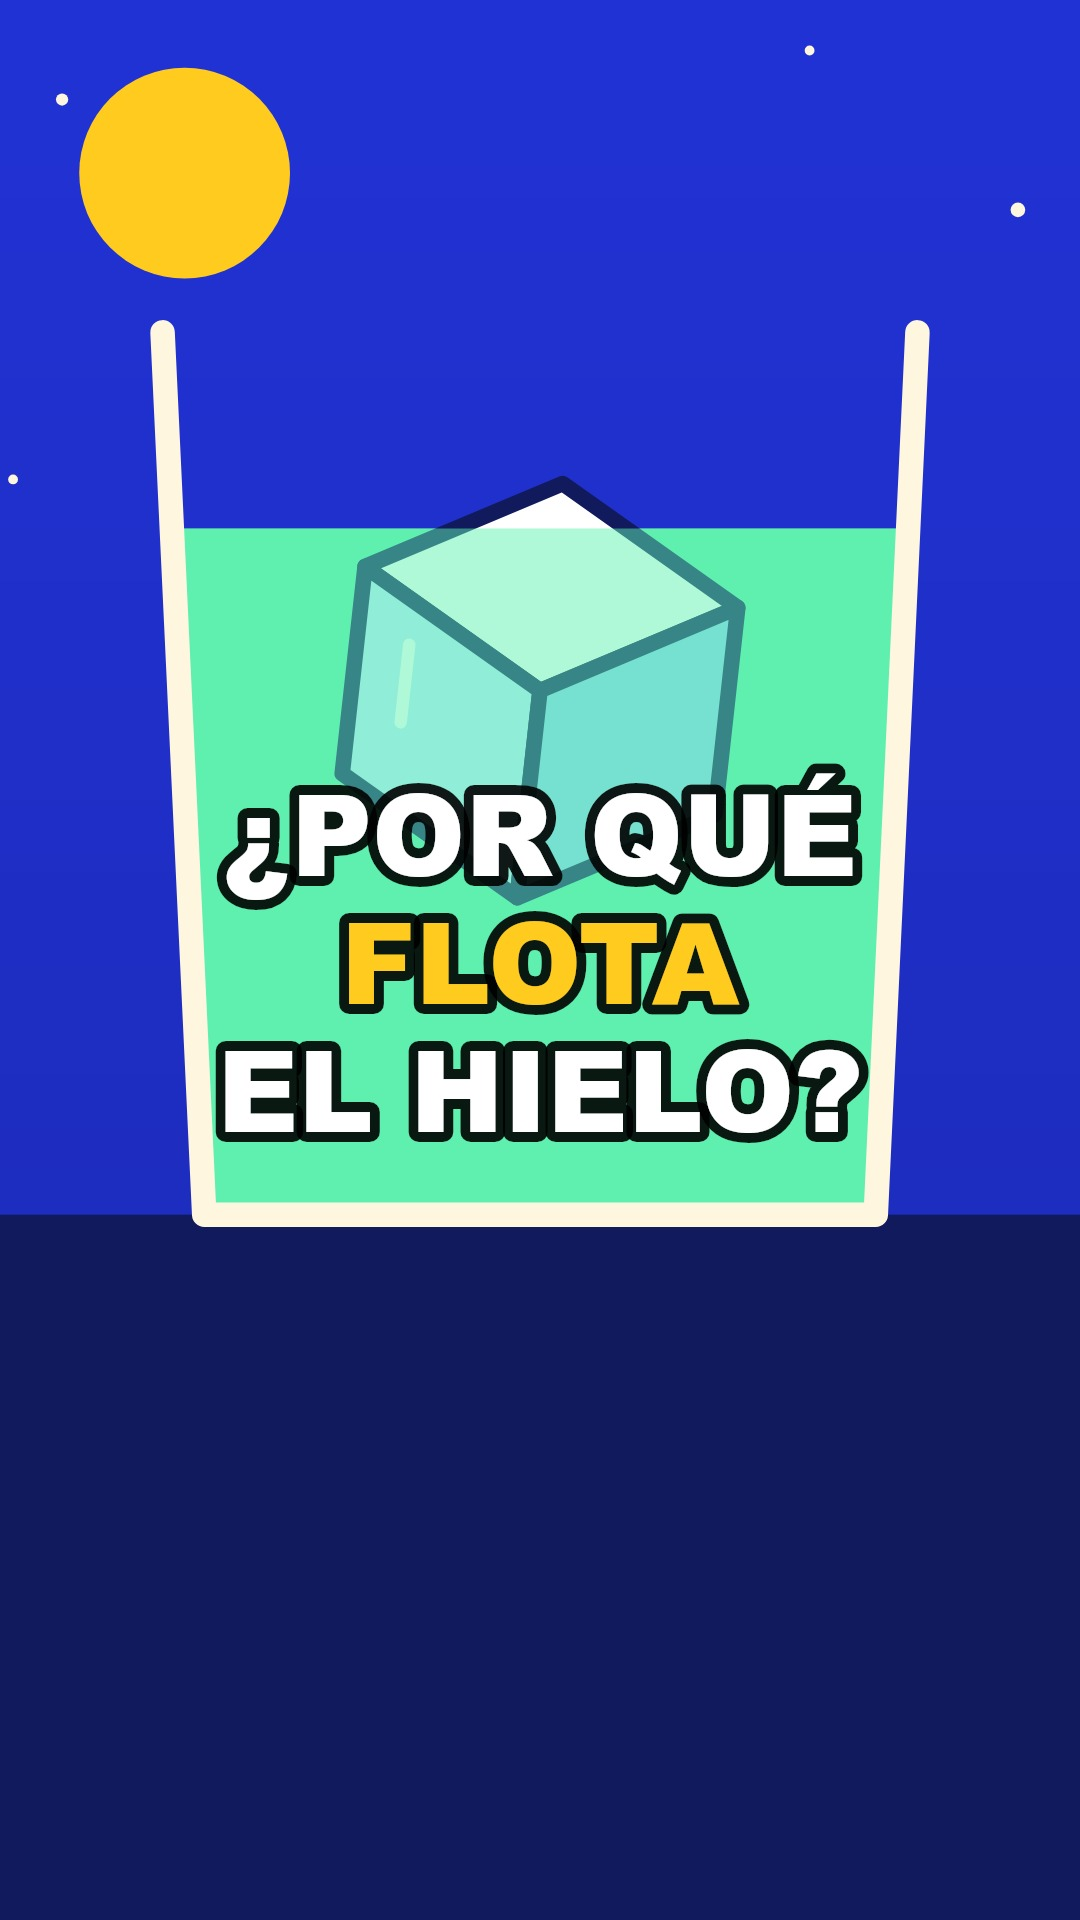
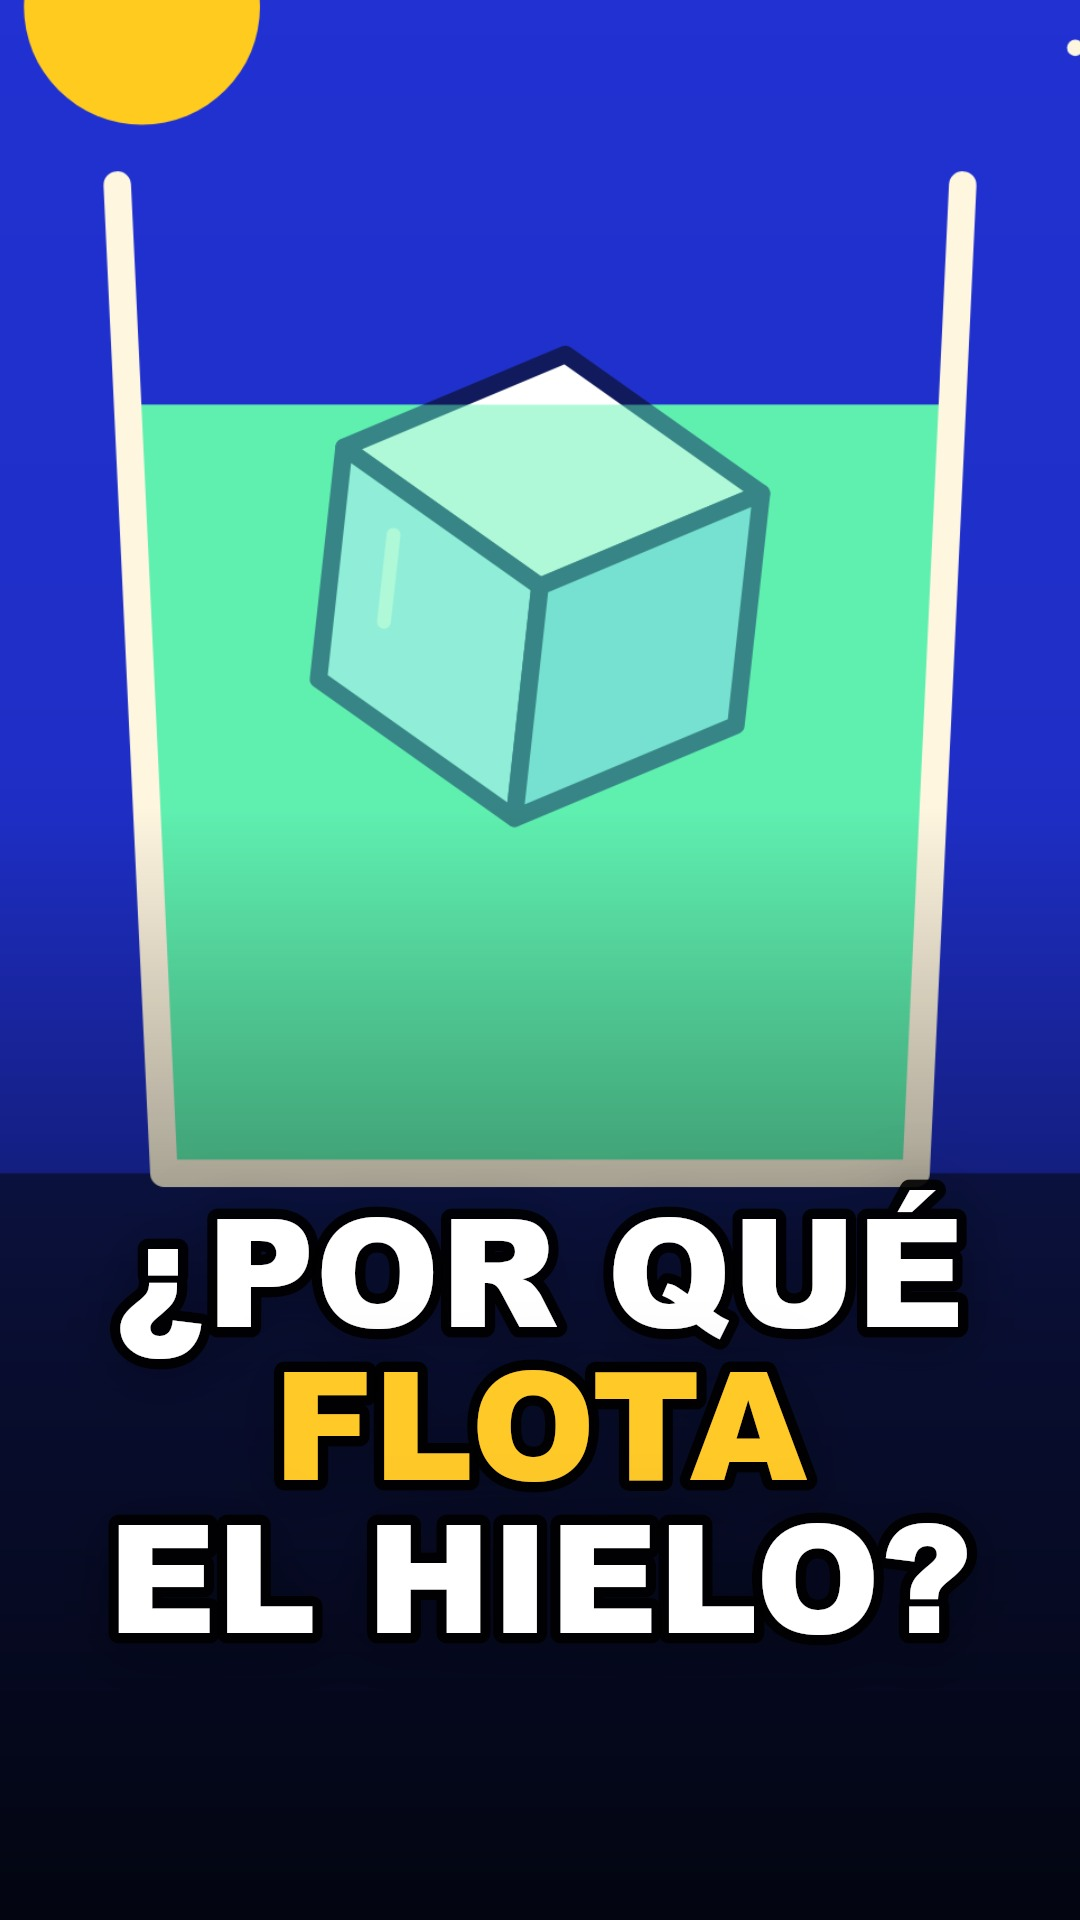
Mejora la portada: título sin tapar el dibujo y encuadre del fondo
- La portada se genera en scripts/lib/portada.mjs, con el título abajo, arriba o en el centro.
- Sombra degradada detrás del título y tamaño ajustado al ancho.
- Opciones nuevas: etiqueta, zoom, foco, mover, color, acento y dibujar.
- El título queda dentro de la zona que muestran los perfiles (3:4).
- `ver <proyecto> portada` la dibuja sin hacer el vídeo.
- Nueva portada del ejemplo del hielo.

diff --git a/mente-videos/SKILL.md b/mente-videos/SKILL.md
@@ -39,7 +39,9 @@ creador ha puesto en su carpeta y úsalo cuando encaje con el vídeo.
 8. **Añade el sonido** si el creador lo quiere: edita `sonido.mjs` y ejecuta `sonido <proyecto>`. Hay efectos
    (`{ efecto, t, db }`) y música de fondo (`{ musica, db }`), que baja sola cuando habla la voz; `sonido --catalogo` los
    lista. Las escenas también pueden traer su sonido. No puedes oír el resultado, así que pídele que lo escuche.
-9. **Termina.** Edita `portada.mjs` y `post.txt` y ejecuta `render <proyecto>`. Todo queda en su carpeta de finales.
+9. **Termina.** Edita `portada.mjs` y `post.txt`. Mira la portada con `ver <proyecto> portada`: el título no debe tapar
+   lo importante del dibujo y debe quedar entre y 240 e y 1680, porque los perfiles la recortan. Ejecuta
+   `render <proyecto>`. Todo queda en su carpeta de finales.
 
 ## Lo que aprende
 
